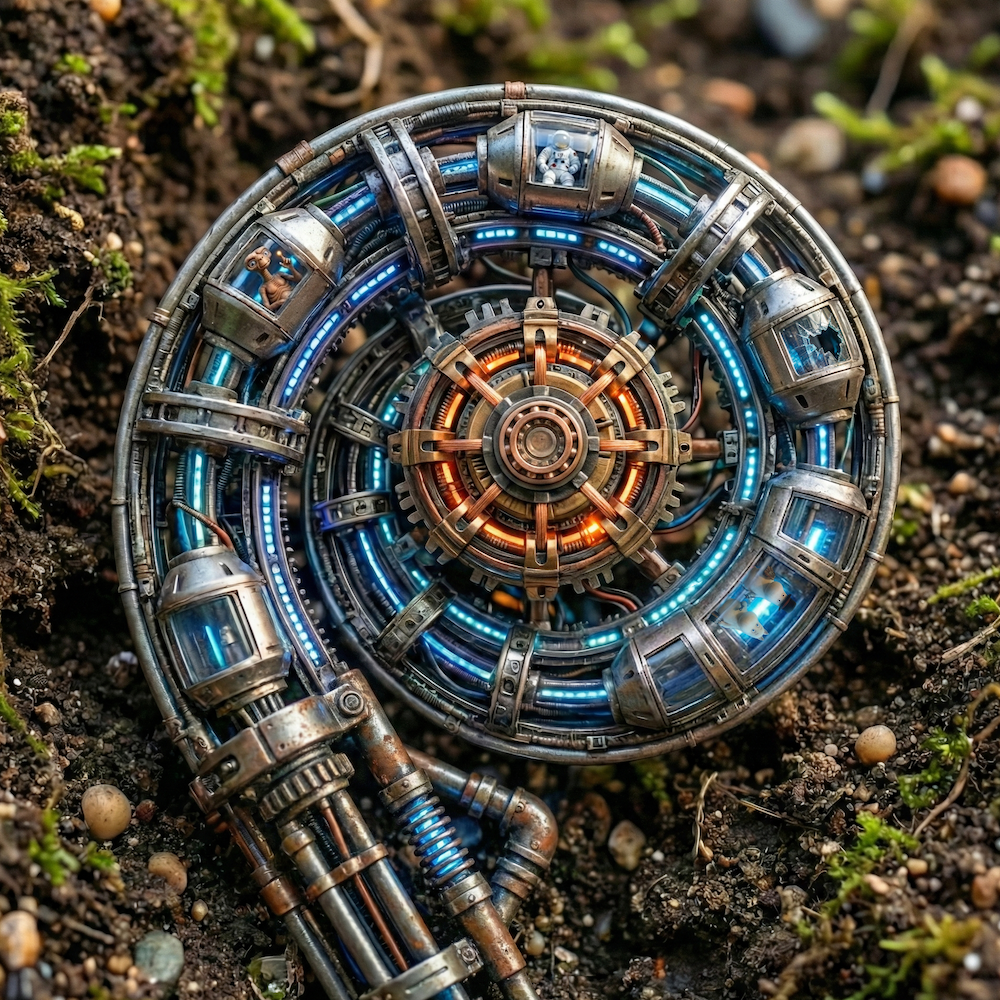
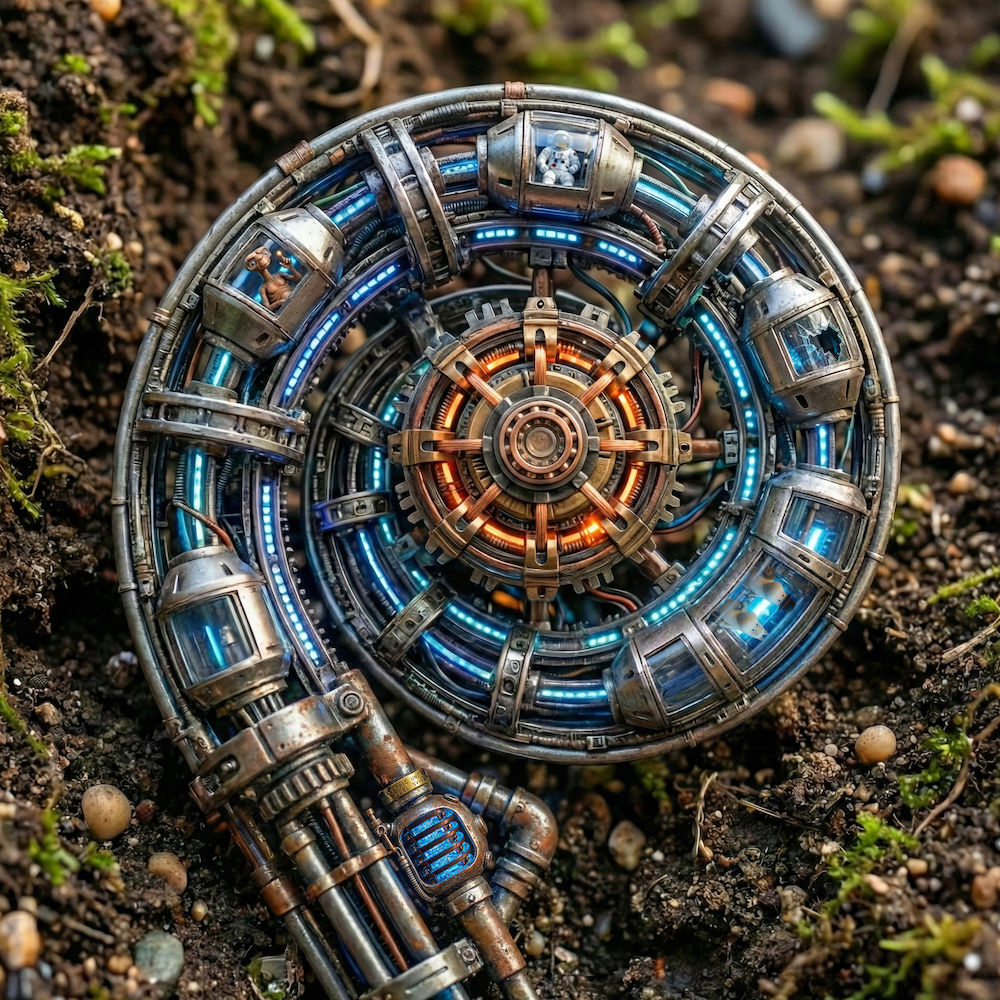
6

Changed region(s): [[0.372, 0.775, 0.496, 0.899]]

diff --git a/scenes.js b/scenes.js
@@ -185,7 +185,9 @@ window.gameData = {
     },
     'electronic': {
         type: 'cinematic',
-        hotspots: []
+        hotspots: [
+					{ top: '81.0%', left: '40.6%', width: '6.4%', height: '6.4%', target: 'mall' }
+        ]
     },
     'plushie': {
         type: 'cinematic',
@@ -214,6 +216,10 @@ window.gameData = {
         hotspots: []
     },
     'seaweed': {
+        type: 'cinematic',
+        hotspots: []
+    },
+    'mall': {
         type: 'cinematic',
         hotspots: []
     },
